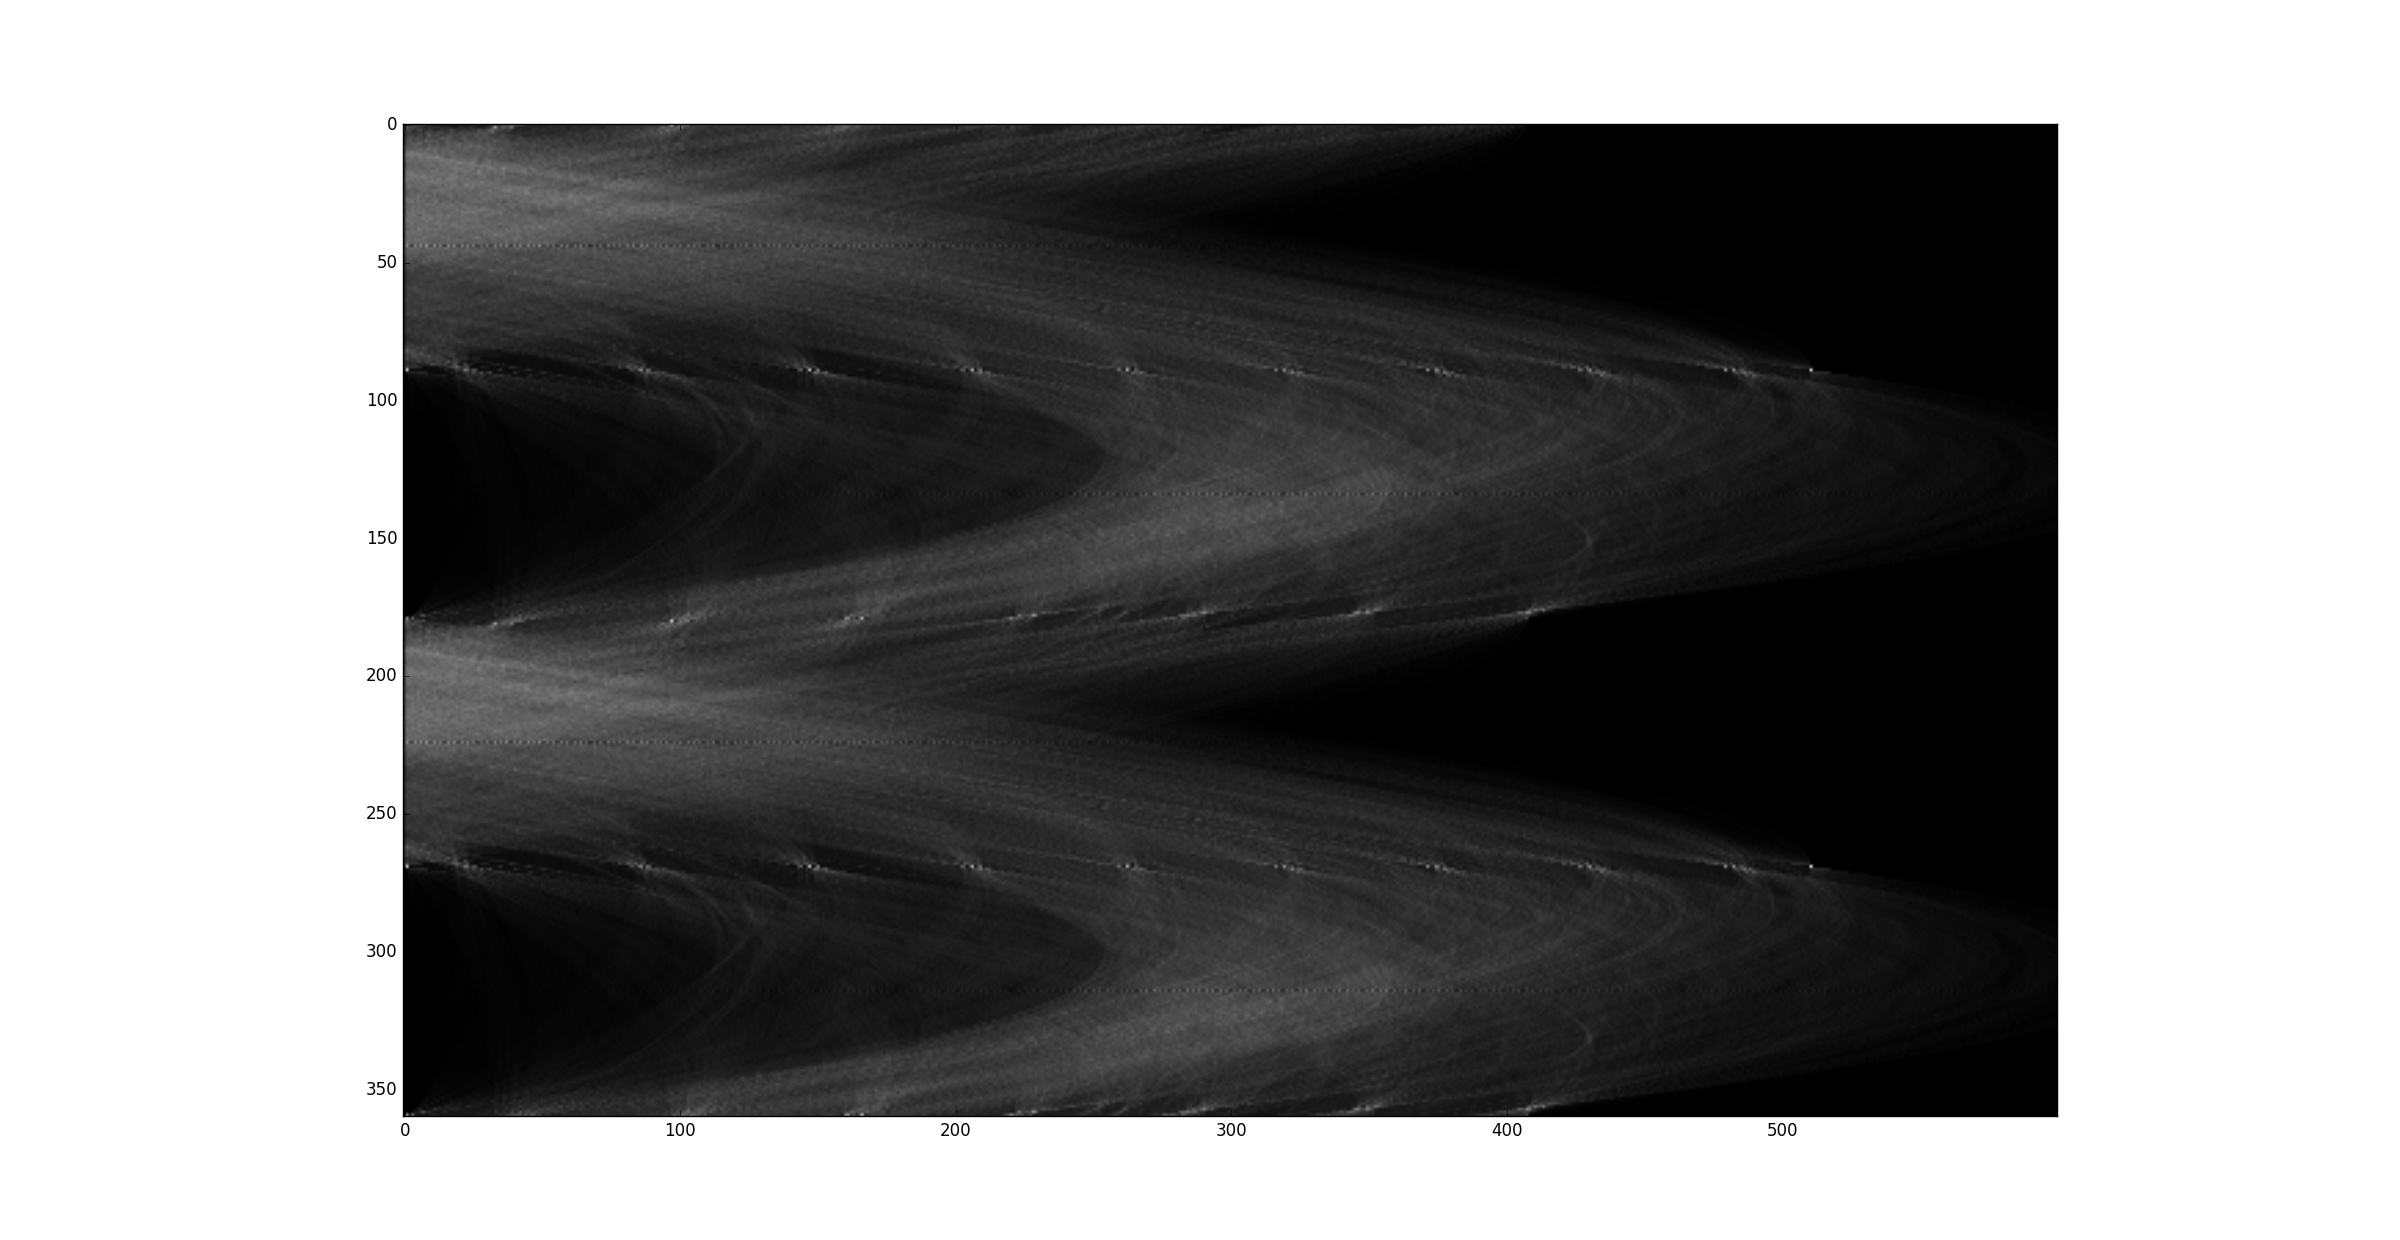
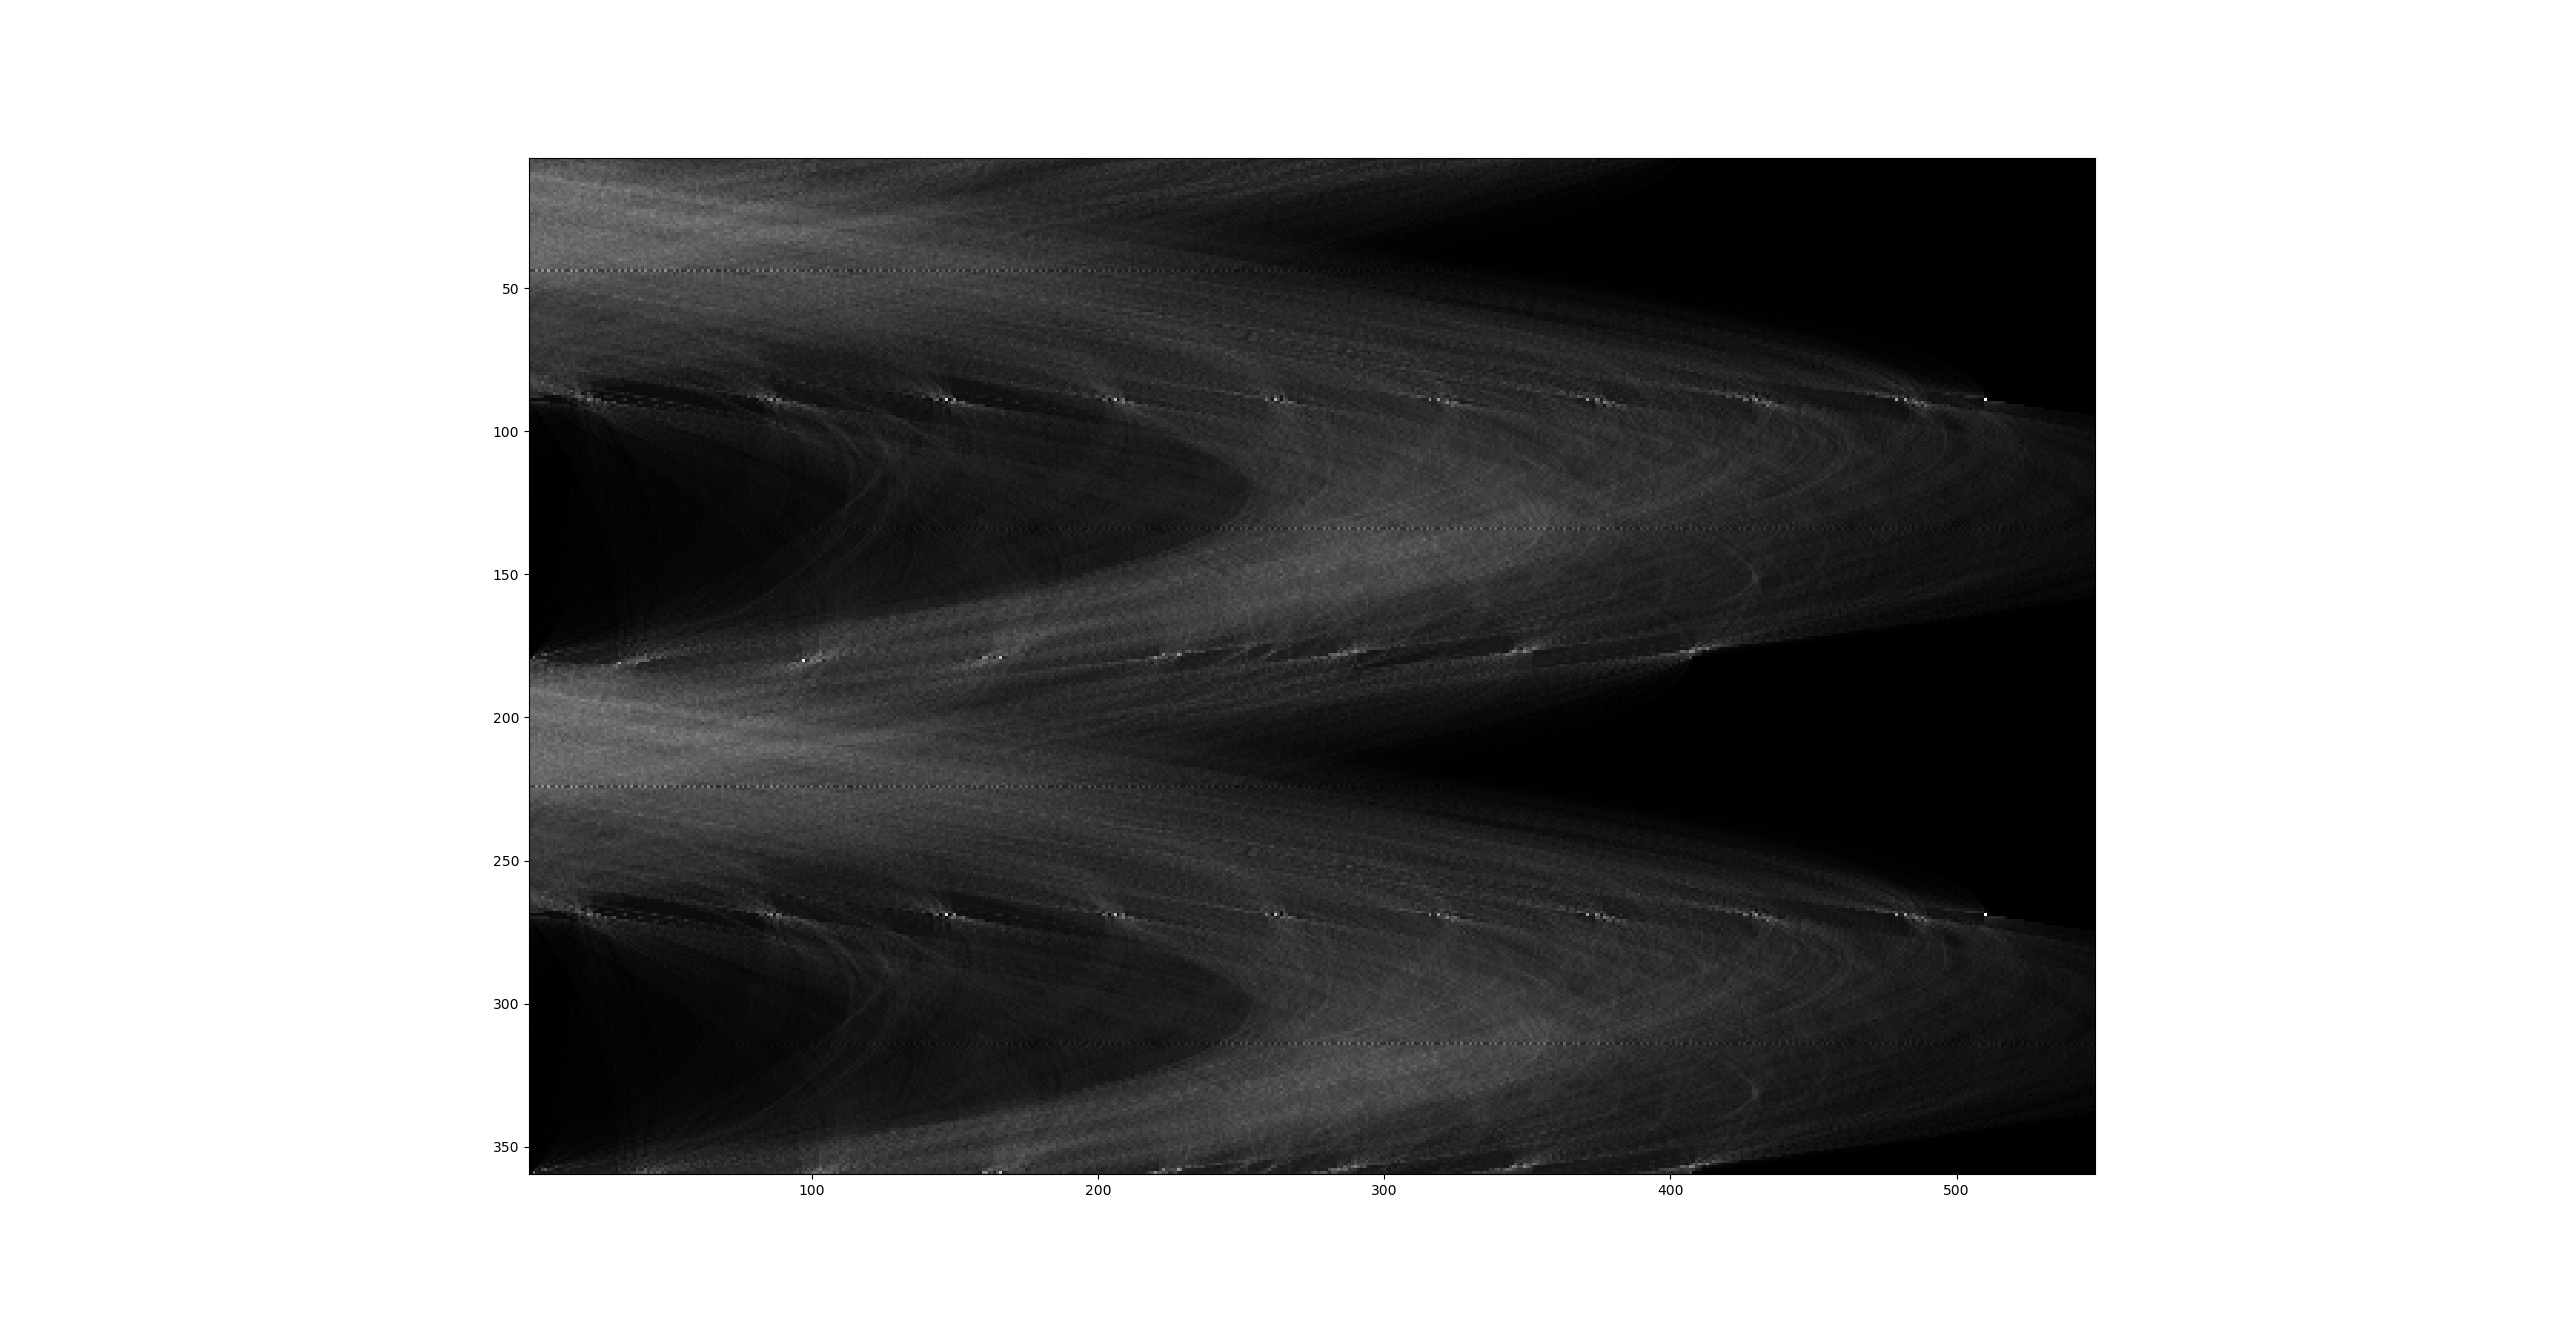
Finished problems 1-3

diff --git a/cv_b457/a4/a4.py b/cv_b457/a4/a4.py
@@ -15,35 +15,6 @@ import random
 import scipy.ndimage as ndi
 from skimage import feature
 
-# Problem 1.1 - canny edge detection
-def p1_1():
-	im = Image.open('line_original.png').convert('L')
-	ar_im = array(im)
-
-	# Compute the Canny filter for two values of sigma
-	edges1 = feature.canny(ar_im)
-	edges2 = feature.canny(ar_im, sigma=3)
-
-	# display results
-	fig, (ax1, ax2, ax3) = subplots(nrows=1, ncols=3, figsize=(8, 3),
-		                                sharex=True, sharey=True)
-
-	ax1.imshow(ar_im, cmap=plt.cm.gray)
-	ax1.axis('off')
-	ax1.set_title('Default image', fontsize=20)
-
-	ax2.imshow(edges1, cmap=plt.cm.gray)
-	ax2.axis('off')
-	ax2.set_title('Canny filter, $\sigma=1$', fontsize=20)
-
-	ax3.imshow(edges2, cmap=plt.cm.gray)
-	ax3.axis('off')
-	ax3.set_title('Canny filter, $\sigma=3$', fontsize=20)
-
-	fig.tight_layout()
-
-	show()
-
 def hough_transform(im, theta, d):
 	"""	Performs Hough Tranform on passed image.
 
@@ -75,15 +46,65 @@ def hough_transform(im, theta, d):
 	print max(d_values)
 	return h_bin
 
+# Problem 1.1 - canny edge detection
+def p1_1():
+	im = Image.open('line_original.png').convert('L')
+	ar_im = array(im)
 
-# Problem 1.2
+	# Compute the Canny filter for two values of sigma
+	edges1 = feature.canny(ar_im)
+	edges2 = feature.canny(ar_im, sigma=3)
+
+	# display results
+	fig, (ax1, ax2, ax3) = subplots(nrows=1, ncols=3, figsize=(8, 3),
+		                                sharex=True, sharey=True)
+
+	ax1.imshow(ar_im, cmap=plt.cm.gray)
+	ax1.axis('off')
+	ax1.set_title('Default image', fontsize=20)
+
+	ax2.imshow(edges1, cmap=plt.cm.gray)
+	ax2.axis('off')
+	ax2.set_title('Canny filter, $\sigma=1$', fontsize=20)
+
+	ax3.imshow(edges2, cmap=plt.cm.gray)
+	ax3.axis('off')
+	ax3.set_title('Canny filter, $\sigma=3$', fontsize=20)
+
+	fig.tight_layout()
+
+	show()
+
+# Problem 1.2 - hough transform
 def p1_2():
 	im = Image.open('line_original.png').convert('L')
 	ar_im = array(im)
 	h_bin = hough_transform(ar_im, 360, 600)
+	h_bin = ndi.rotate(h_bin, 90, mode='constant') # Displays better in landscape
+	imshow(h_bin, cmap='gray')
+	show()
+
+# Problem 1.3 - hough transform with different bin size
+def p1_3():
+	im = Image.open('line_original.png').convert('L')
+	ar_im = array(im)
+	h_bin = hough_transform(ar_im, 120, 400)
 
 	h_bin = ndi.rotate(h_bin, 90, mode='constant')
 	imshow(h_bin, cmap='gray')
+	show()
+
+# Problem 1.4 - Find peaks in Hough Transform
+def p1_4():
+	im = Image.open('line_original.png').convert('L')
+	ar_im = array(im)
+	h_bin = hough_transform(ar_im, 120, 400)
+	h_bin = ndi.rotate(h_bin, 90, mode='constant')
+	
+	coordinates = feature.peak_local_max(h_bin, min_distance=23)
+
+	imshow(h_bin, cmap=plt.cm.gray)
+	plot(coordinates[:, 1], coordinates[:, 0], 'r.')
 	show()
 
 # Problem 1
@@ -107,7 +128,8 @@ def p1():
 	show()
 
 if __name__ == '__main__':
-	#im = Image.open('zebra.jpg').convert('L')
 	#p1_1()
-	p1_2()
+	#p1_2()
+	#p1_3()
+	p1_4()
 
